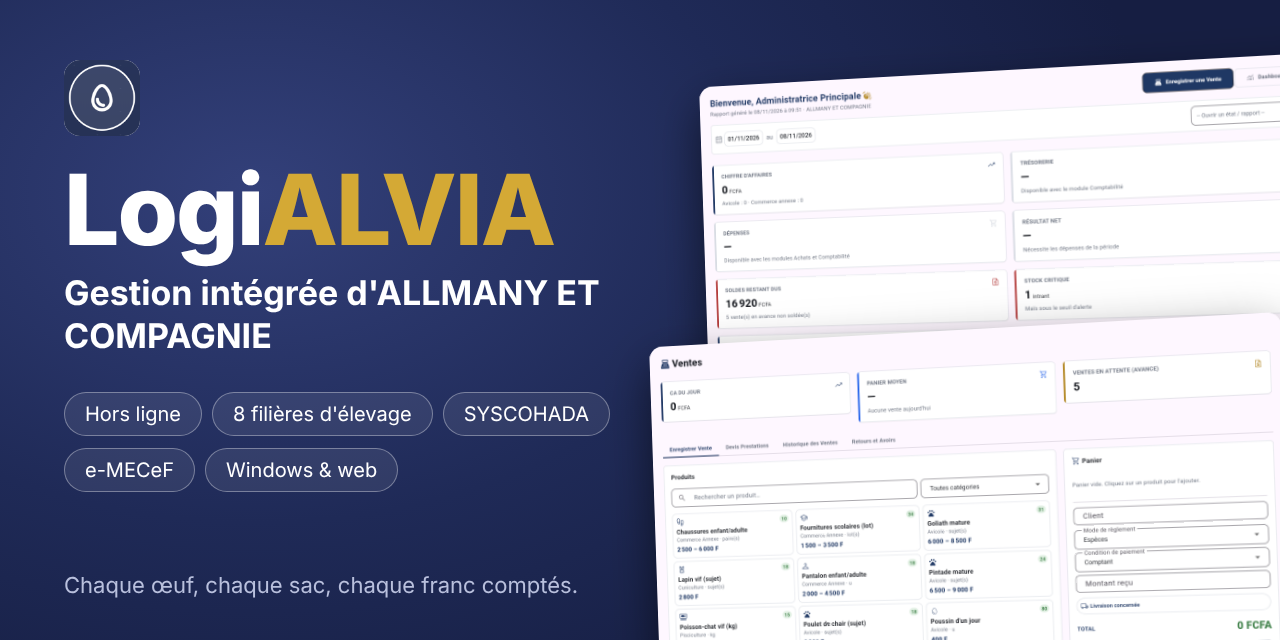
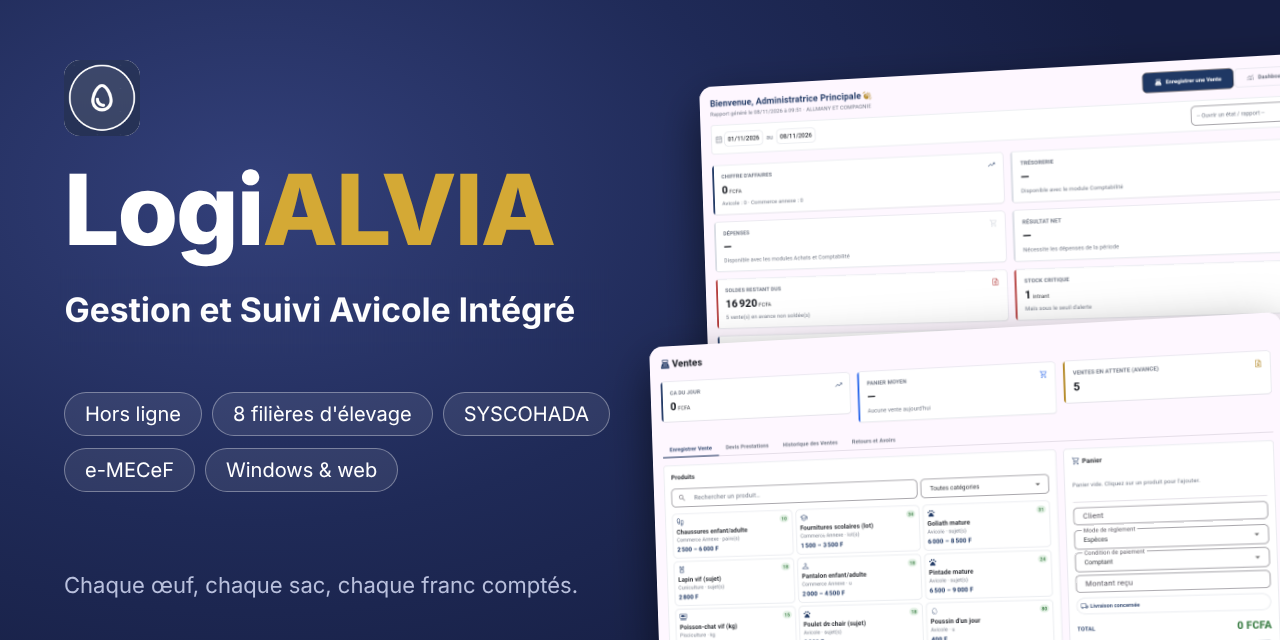
Aperçu social et README : sous-titre « Gestion et Suivi Avicole Intégré »
Claude-Session: https://claude.ai/code/session_016j1okKCK1SzKJB46duFscG

Changed region(s): [[0.0312, 0.4375, 0.4688, 0.5625]]

diff --git a/README.md b/README.md
@@ -4,7 +4,7 @@
 
 # LogiALVIA
 
-**Gestion intégrée d'ALLMANY ET COMPAGNIE**
+**Gestion et Suivi Avicole Intégré**
 de l'œuf mis en couveuse jusqu'au bilan de fin d'exercice.
 
 `Hors ligne` · `8 filières d'élevage` · `Ventes & caisse` · `Stocks & achats` · `Comptabilité SYSCOHADA` · `e-MECeF` · `Windows & web`
